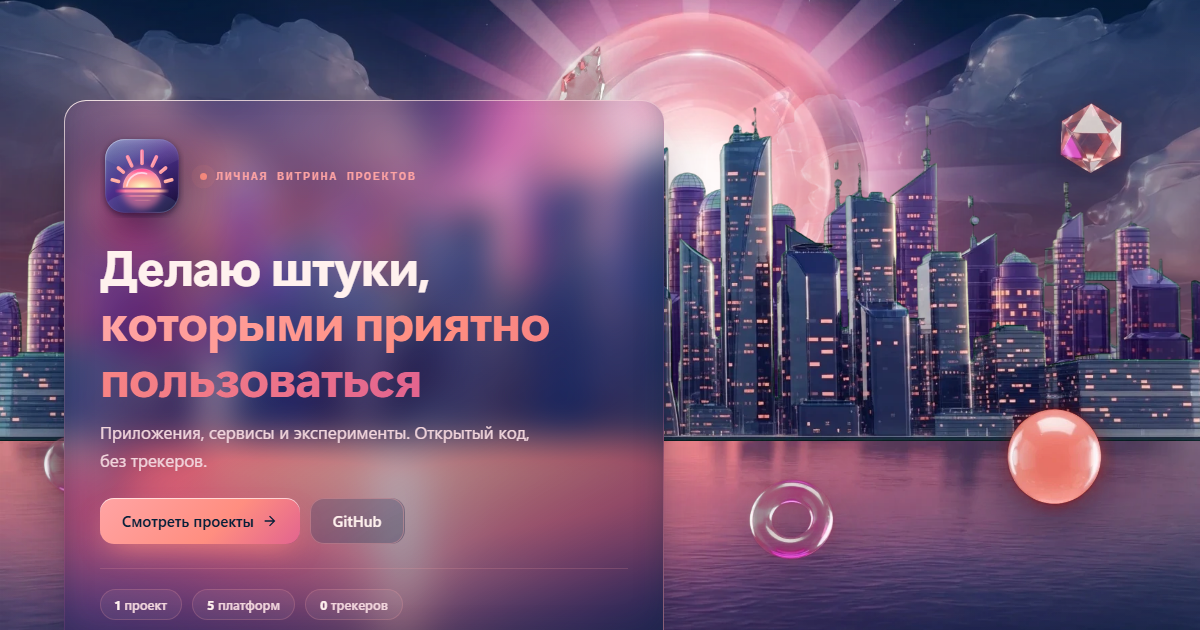
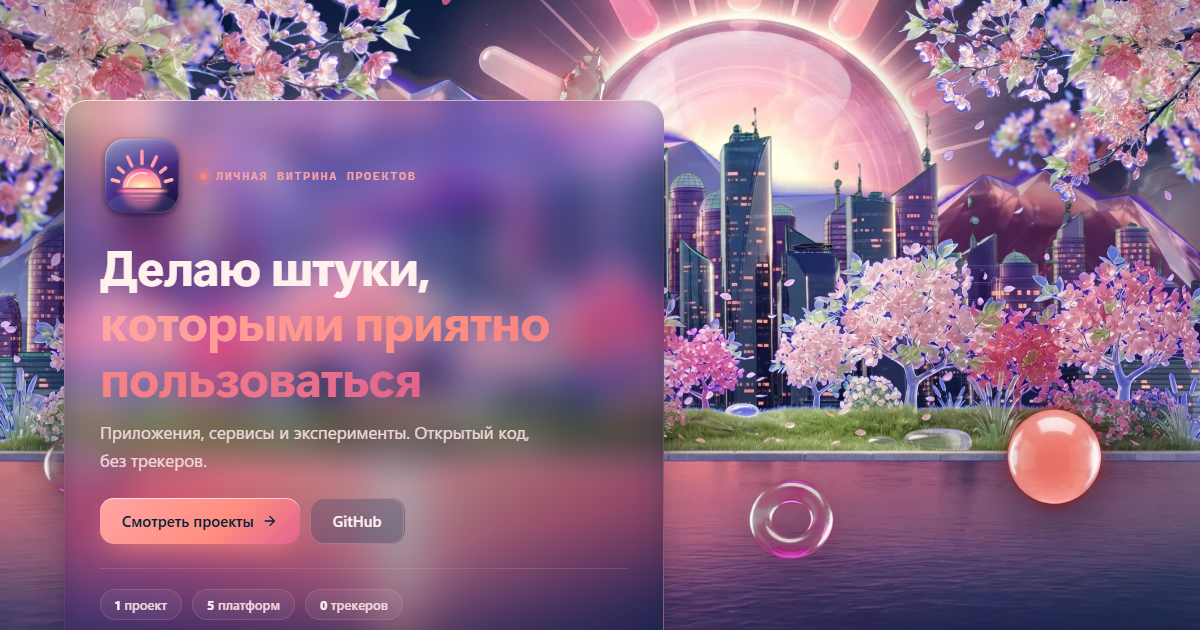
Four seasons by scroll, nature layers from Gemini (hills, shores, branches), fix city lifting on parallax

diff --git a/index.html b/index.html
@@ -57,7 +57,24 @@ img{max-width:100%}
 .fb-halo{position:absolute;inset:-60%;border-radius:50%;background:radial-gradient(circle,rgba(255,164,164,.55),rgba(226,100,143,.28) 30%,rgba(136,47,143,.0) 62%);mix-blend-mode:screen}
 .sun{mix-blend-mode:screen}
 .sun>img{width:100%;height:100%;object-fit:contain;-webkit-mask:radial-gradient(circle,#000 62%,transparent 74%);mask:radial-gradient(circle,#000 62%,transparent 74%)}
-.city{bottom:calc(100vh - var(--hz) - 1px);left:50%;right:auto;width:max(104vw,1340px);transform-origin:50% 100%}
+.cen{left:50%;right:auto;transform-origin:50% 100%}
+.city{bottom:calc(100vh - var(--hz) - 1px);width:max(104vw,1340px)}
+.hills{bottom:calc(100vh - var(--hz) - 1px);width:max(150vw,1900px)}
+.hills>img{display:block;width:100%;height:auto}
+.shore{bottom:calc(100vh - var(--hz) - 3.2vh);width:max(104vw,1340px);aspect-ratio:5.5/1}
+.shore>img{position:absolute;left:0;bottom:0;width:100%;height:auto;opacity:0}
+.tint{position:absolute;inset:0;mix-blend-mode:color;pointer-events:none;opacity:0}
+.branches{position:fixed;inset:0;z-index:-1;pointer-events:none;overflow:hidden}
+.br{position:absolute;top:-2vh;width:min(54vw,780px);aspect-ratio:16/9;will-change:transform}
+.br.l{left:-3vw}
+.br.r{right:-3vw;width:min(40vw,580px);top:-1vh}
+.br img{position:absolute;inset:0;width:100%;height:100%;opacity:0;filter:drop-shadow(0 20px 30px rgba(5,10,40,.45))}
+#parts{position:fixed;inset:0;z-index:-1;pointer-events:none}
+.seasons.glass{position:fixed;right:16px;top:50%;transform:translateY(-50%);z-index:45;display:flex;flex-direction:column;gap:13px;padding:15px 10px;border-radius:999px;align-items:center}
+.seasons button{width:14px;height:14px;border-radius:50%;border:2px solid var(--c);background:transparent;cursor:pointer;padding:0;transition:.25s;position:relative}
+.seasons button.on{background:var(--c);box-shadow:0 0 14px var(--c);transform:scale(1.25)}
+.seasons button:hover:after{content:attr(data-n);position:absolute;right:26px;top:50%;transform:translateY(-50%);font:600 12px var(--mono);color:var(--ink);background:rgba(5,31,57,.85);padding:3px 9px;border-radius:8px;white-space:nowrap}
+@media(max-width:700px){.seasons{right:6px;padding:11px 7px}}
 .city>svg,.city>img{display:block;width:100%;height:auto}
 .water{top:var(--hz);bottom:0}
 .water>img{width:100%;height:100%;object-fit:cover}
@@ -195,12 +212,20 @@ footer a:hover{text-decoration:underline}
 <div class="scene" id="scene" aria-hidden="true">
   <div class="ly sky" data-n="sky" data-d="0.01"></div>
   <div class="ly sun" data-n="sun" data-d="0.02"></div>
-  <div class="ly city" data-n="city-far" data-d="0.035"></div>
-  <div class="ly city" data-n="city-mid" data-d="0.06"></div>
-  <div class="ly city" data-n="city-near" data-d="0.1"></div>
+  <div class="ly hills cen" data-n="hills" data-d="0.02"></div>
+  <div class="ly city cen" data-n="city-far" data-d="0.035"></div>
+  <div class="ly city cen" data-n="city-mid" data-d="0.06"></div>
+  <div class="ly city cen" data-n="city-near" data-d="0.1"></div>
   <div class="ly water" data-n="water" data-d="0.02"></div>
+  <div class="ly shore cen" data-n="shore" data-d="0.12"></div>
+  <div class="tint" id="tint"></div>
 </div>
 <div class="sprites" id="sprites" aria-hidden="true"></div>
+<div class="branches" id="branches" aria-hidden="true"></div>
+<canvas id="parts" aria-hidden="true"></canvas>
+<div class="seasons glass" role="group" aria-label="Seasons">
+  <button data-k="0" style="--c:#ffa4a4"></button><button data-k="1" style="--c:#ffd27a"></button><button data-k="2" style="--c:#ff8e80"></button><button data-k="3" style="--c:#9fd8ff"></button>
+</div>
 <div class="veil" id="veil"></div><div class="fx"></div>
 
 <nav><div class="bar glass">
@@ -312,6 +337,7 @@ function render(){
   document.querySelector("#marq").innerHTML=unit+unit+unit+unit;
   document.querySelector("#stack").innerHTML=STACK.map(x=>`<span>${x}</span>`).join("");
   renderWork(); renderFeed();
+  if(typeof updSeasonUI==="function") updSeasonUI();
 }
 document.querySelector("#lang").onclick=()=>{L=L==="ru"?"en":"ru";localStorage.setItem("lang",L);render()};
 document.querySelector("#yr").textContent=new Date().getFullYear();
@@ -364,6 +390,8 @@ const FB={
   "water":()=>`<div class="fb-water"></div><div class="fb-mirror">${FB["city-mid"]()}</div><div class="fb-ripples"></div><div class="fb-refl"></div>`
 };
 const LAYERS=[...document.querySelectorAll(".ly")];
+const SEASONS=["spring","summer","autumn","winter"];
+const SNAME={ru:["Весна","Лето","Осень","Зима"],en:["Spring","Summer","Autumn","Winter"]};
 /* Build the scene once: Gemini art from scene.json (written by tools/import_gemini.py) where it
    exists, vector fallback elsewhere. Swapping content after first paint caused repaint glitches,
    so wait for the manifest and decoded images, then fade the layers in. */
@@ -371,46 +399,117 @@ function loadImg(src){return new Promise(res=>{const im=new Image();im.alt="";le
 (async function initScene(){
   let m=null;
   try{const r=await Promise.race([fetch("scene.json"),new Promise((_,rej)=>setTimeout(rej,2500))]); if(r.ok) m=await r.json();}catch(_){}
-  const LY=(m&&m.layers)||{};
+  const LY=(m&&m.layers)||{}, SE=(m&&m.seasons)||{};
   await Promise.all(LAYERS.map(async el=>{
-    const n=el.dataset.n, src=LY[n];
+    const n=el.dataset.n;
+    if(n==="shore"){for(const s of SEASONS){if(SE[s]&&SE[s].shore){const im=await loadImg(SE[s].shore); if(im){im.dataset.s=s; el.appendChild(im);}}} return;}
+    const src=LY[n];
     if(src){const im=await loadImg(src); if(im){el.appendChild(im);
       if(n==="sky") el.insertAdjacentHTML("beforeend",'<div class="dawn"></div>'); return;}}
-    el.innerHTML=FB[n]();
+    el.innerHTML=FB[n]?FB[n]():"";
   }));
+  /* corner branches, one image per season, crossfaded */
+  const brs=document.querySelector("#branches");
+  for(const side of ["l","r"]){
+    const b=document.createElement("div"); b.className="br "+side; b.dataset.d=side==="l"?.16:.22;
+    for(const s of SEASONS){if(SE[s]&&SE[s].branch){const im=await loadImg(SE[s].branch); if(im){im.dataset.s=s; b.appendChild(im);}}}
+    if(b.children.length) brs.appendChild(b);
+  }
   const SPOT=[[7,24,9,.14],[88,16,6,.2],[83,64,10,.1],[3,70,6,.22],[46,9,5,.13],[62,78,8,.17]];
   const box=document.querySelector("#sprites");
   (m&&m.glass||[]).slice(0,SPOT.length).forEach((src,i)=>{const s=SPOT[i],e=document.createElement("div");
     e.className="gs";e.dataset.d=s[3];e.style.cssText=`left:${s[0]}%;top:${s[1]}%;width:${s[2]}vw;min-width:${s[2]*9}px;animation-delay:${-i*1.7}s`;
     e.innerHTML=`<img src="${src}" alt="">`;box.appendChild(e)});
   setTimeout(()=>document.querySelector("#scene").classList.add("ready"),60);
+  applySeasons(); apply();
 })();
 
-/* ================= motion: sunrise on scroll + pointer parallax ================= */
+/* ================= motion: sunrise + four seasons on scroll, pointer parallax ================= */
 const still=matchMedia("(prefers-reduced-motion:reduce)").matches;
 const fine=matchMedia("(hover:hover) and (pointer:fine)").matches;
-const root=document.documentElement, scene=document.querySelector("#scene"), sunEl=document.querySelector(".sun");
-let px=0,py=0,tx=0,ty=0,sy=0;
+const root=document.documentElement, scene=document.querySelector("#scene"), tint=document.querySelector("#tint");
+let px=0,py=0,tx=0,ty=0,sy=0,WT=[1,0,0,0],SUNO=[1,1],curS=-1;
+const clamp=(v,a,b)=>Math.max(a,Math.min(b,v));
+/* season look: colour grade + sun mood */
+const TINT={spring:[0,0,0,0],summer:[255,176,72,.26],autumn:[255,110,30,.34],winter:[96,176,255,.42]};
+const SUNK={spring:[1,1],summer:[1,1.08],autumn:[.88,.96],winter:[.5,.86]};
+function weights(s){const w=[0,0,0,0],i=Math.min(2,Math.floor(s)),t=s-i,e=clamp((t-.3)/.4,0,1),k=e*e*(3-2*e);w[i]=1-k;w[i+1]=k;return w}
+function updSeasonUI(){
+  document.querySelectorAll(".seasons button").forEach((b,i)=>{b.classList.toggle("on",i===curS);b.dataset.n=SNAME[L][i];b.setAttribute("aria-label",SNAME[L][i])});
+}
+function applySeasons(){
+  const max=Math.max(1,root.scrollHeight-innerHeight);
+  WT=weights(3*clamp(sy/max,0,1));
+  document.querySelectorAll("[data-s]").forEach(im=>{im.style.opacity=WT[SEASONS.indexOf(im.dataset.s)]});
+  let a=0,r=0,g=0,b=0,so=0,ss=0;
+  SEASONS.forEach((n,i)=>{const T=TINT[n],wa=WT[i]*T[3];a+=wa;r+=wa*T[0];g+=wa*T[1];b+=wa*T[2];so+=WT[i]*SUNK[n][0];ss+=WT[i]*SUNK[n][1]});
+  tint.style.background=a>0?`rgb(${Math.round(r/a)},${Math.round(g/a)},${Math.round(b/a)})`:"transparent"; tint.style.opacity=a;
+  SUNO=[so,ss];
+  const idx=WT.indexOf(Math.max(...WT)); if(idx!==curS){curS=idx;updSeasonUI()}
+}
 function apply(){
   const vh=innerHeight, p=.34+.66*Math.min(1,sy/(vh*1.1));
   scene.style.setProperty("--night",(1-p)*.75);
   scene.style.setProperty("--nightImg",(1-p)*.55);
-  /* sun climbs from just under the skyline to well above it */
+  /* the sun climbs from just under the skyline to well above it */
   const rise=-(.31+.2*p)*vh;
   LAYERS.forEach(el=>{
-    const d=+el.dataset.d, n=el.dataset.n;
-    let x=-px*d*60, y=-py*d*40 - sy*d*.35, ex="";
-    if(n==="sun") y+=rise;
-    if(el.classList.contains("city")) ex="translateX(-50%) ";
-    el.style.transform=`${ex}translate3d(${x}px,${y}px,0)`;
+    const d=+el.dataset.d, n=el.dataset.n, cen=el.classList.contains("cen");
+    /* everything standing on the horizon (hills, city, water, shore) moves sideways only:
+       a vertical shift would lift the city off its base and open a gap */
+    let x=-px*d*40, y=0;
+    if(n==="sky") y=-py*d*30 - sy*d*.2;
+    let tf=`translate3d(${x}px,${y}px,0)`;
+    if(n==="sun"){tf=`translate3d(${x}px,${rise-py*d*20}px,0) scale(${SUNO[1]})`; el.style.opacity=SUNO[0]}
+    el.style.transform=(cen?"translateX(-50%) ":"")+tf;
   });
+  document.querySelectorAll(".br").forEach(e=>{const d=+e.dataset.d;e.style.transform=`translate3d(${-px*d*90}px,${-py*d*60-sy*d*.12}px,0)${e.classList.contains("r")?" scaleX(-1)":""}`});
   document.querySelectorAll(".gs").forEach(e=>{const d=+e.dataset.d;e.style.transform=`translate3d(${-px*d*140}px,${-py*d*100-sy*d*.5}px,0)`});
   root.style.setProperty("--veil",Math.min(.5,sy/(vh*2.2)));
 }
-function frame(){px+=(tx-px)*.06;py+=(ty-py)*.06;apply();requestAnimationFrame(frame)}
-addEventListener("scroll",()=>{sy=scrollY;if(still)apply()},{passive:true});
+
+/* ---- falling nature: petals, fireflies, leaves, snow (canvas, follows the season weights) ---- */
+const cv=document.querySelector("#parts"), cx=cv.getContext("2d");
+let PT=[];
+function fitCanvas(){cv.width=innerWidth;cv.height=innerHeight}
+addEventListener("resize",fitCanvas); fitCanvas();
+function spawn(kind){
+  const W=cv.width,H=cv.height,r=Math.random;
+  const p={k:kind,x:r()*W*1.15-W*.05,y:-24,a:r()*6.28,ph:r()*6.28,sp:(r()-.5)*2.4};
+  if(kind==="petal"){p.vy=22+r()*26;p.vx=10+r()*20;p.sz=4+r()*5;p.col=r()<.5?"255,164,164":"226,100,143"}
+  if(kind==="leaf"){p.vy=34+r()*34;p.vx=8+r()*26;p.sz=7+r()*6;p.col=["255,142,128","226,100,143","250,255,194","224,130,50"][Math.floor(r()*4)]}
+  if(kind==="snow"){p.vy=26+r()*40;p.vx=-6+r()*12;p.sz=1.2+r()*3;p.col="255,255,255"}
+  if(kind==="fly"){p.x=r()*W;p.y=H*(.3+r()*.55);p.vx=-8+r()*16;p.vy=-6+r()*12;p.sz=1.6+r()*2.2;p.col="255,222,150"}
+  return p;
+}
+function stepParticles(dt,t){
+  const W=cv.width,H=cv.height, wt={petal:WT[0],fly:WT[1],leaf:WT[2],snow:WT[3]};
+  const rate={petal:7,leaf:6,snow:22}, cap={petal:60,leaf:50,snow:140,fly:34};
+  const count={petal:0,leaf:0,snow:0,fly:0}; PT.forEach(p=>count[p.k]++);
+  for(const k of ["petal","leaf","snow"]) if(wt[k]>.05&&count[k]<cap[k]&&Math.random()<rate[k]*wt[k]*dt) PT.push(spawn(k));
+  if(wt.fly>.05) while(count.fly<cap.fly*wt.fly){PT.push(spawn("fly"));count.fly++}
+  cx.clearRect(0,0,W,H);
+  PT=PT.filter(p=>{
+    const f=Math.min(1,wt[p.k]*3); if(p.k==="fly"&&f<.04) return false;
+    p.x+=(p.vx+Math.sin(t*1.3+p.ph)*(p.k==="snow"?10:18))*dt; p.y+=p.vy*dt; p.a+=p.sp*dt;
+    if(p.k==="fly"){ if(p.x<-20||p.x>W+20) p.vx*=-1; if(p.y<H*.25||p.y>H*.9) p.vy*=-1; }
+    else if(p.y>H+30||p.x>W+60) return false;
+    cx.save(); cx.translate(p.x,p.y); cx.rotate(p.a);
+    if(p.k==="petal"){cx.fillStyle=`rgba(${p.col},${.85*f})`;cx.beginPath();cx.ellipse(0,0,p.sz,p.sz*.55,0,0,6.283);cx.fill()}
+    else if(p.k==="leaf"){cx.fillStyle=`rgba(${p.col},${.9*f})`;cx.beginPath();cx.moveTo(0,-p.sz);cx.quadraticCurveTo(p.sz*.9,0,0,p.sz);cx.quadraticCurveTo(-p.sz*.9,0,0,-p.sz);cx.fill()}
+    else if(p.k==="snow"){cx.fillStyle=`rgba(255,255,255,${.9*f})`;cx.beginPath();cx.arc(0,0,p.sz,0,6.283);cx.fill()}
+    else {const pulse=.5+.5*Math.sin(t*2.2+p.ph),g=cx.createRadialGradient(0,0,0,0,0,p.sz*5);g.addColorStop(0,`rgba(${p.col},${.95*pulse*f})`);g.addColorStop(1,`rgba(${p.col},0)`);cx.fillStyle=g;cx.beginPath();cx.arc(0,0,p.sz*5,0,6.283);cx.fill()}
+    cx.restore(); return true;
+  });
+}
+let lastT=performance.now();
+function frame(now){px+=(tx-px)*.06;py+=(ty-py)*.06;applySeasons();apply();stepParticles(Math.min(.05,(now-lastT)/1000),now/1000);lastT=now;requestAnimationFrame(frame)}
+addEventListener("scroll",()=>{sy=scrollY;if(still){applySeasons();apply()}},{passive:true});
+addEventListener("resize",()=>{applySeasons();apply()});
 if(fine&&!still) addEventListener("pointermove",e=>{tx=e.clientX/innerWidth*2-1;ty=e.clientY/innerHeight*2-1});
-sy=scrollY; apply(); if(!still) requestAnimationFrame(frame);
+document.querySelectorAll(".seasons button").forEach(b=>b.onclick=()=>{
+  const max=Math.max(1,root.scrollHeight-innerHeight); scrollTo({top:max*(+b.dataset.k)/3,behavior:still?"auto":"smooth"})});
+sy=scrollY; applySeasons(); apply(); if(!still) requestAnimationFrame(frame);
 
 /* glass tilt + specular follow */
 function bindTilt(){

diff --git a/tools/import_gemini.py b/tools/import_gemini.py
@@ -59,6 +59,26 @@ def key_green(im):
     return out
 
 
+def key_auto(im, crop=None):
+    """Key out a flat background of any colour (blue for the nature assets).
+    The key colour is the median of the frame border; edge pixels are un-mixed so no fringe stays.
+    crop: None = keep the frame, 'v' = crop empty rows above/below the content."""
+    a = np.asarray(im).astype(np.float32)
+    b = 6
+    border = np.concatenate([a[:b].reshape(-1, 3), a[-b:].reshape(-1, 3),
+                             a[:, :b].reshape(-1, 3), a[:, -b:].reshape(-1, 3)])
+    key = np.median(border, axis=0)
+    d = np.linalg.norm(a - key, axis=2)
+    alpha = np.clip((d - 40) / 55, 0, 1)
+    safe = np.maximum(alpha, 1e-3)[..., None]
+    rgb = np.clip((a - (1 - alpha)[..., None] * key) / safe, 0, 255)
+    out = Image.fromarray(np.dstack([rgb, alpha * 255]).astype(np.uint8), "RGBA")
+    if crop == "v":
+        bbox = out.getchannel("A").point(lambda v: 255 if v > 24 else 0).getbbox()
+        if bbox:
+            out = out.crop((0, bbox[1], out.width, bbox[3]))
+    return out
+
 def black_to_alpha(im):
     """For screen-blended art on black: alpha from brightness, colour un-premultiplied."""
     a = np.asarray(im).astype(np.float32)
@@ -100,6 +120,18 @@ def main():
             box = (max(sl[1].start - pad, 0), max(sl[0].start - pad, 0), sl[1].stop + pad, sl[0].stop + pad)
             manifest["glass"].append(save(rgba.crop(box), f"glass-{k}", True))
 
+    # nature: hills + per-season shore strip and corner branch (blue chroma key)
+    if (im := load("hills")):
+        manifest["layers"]["hills"] = save(key_auto(shrink(im), "v"), "hills", True)
+    manifest["seasons"] = {}
+    for s in ("spring", "summer", "autumn", "winter"):
+        entry = {}
+        if (im := load(f"shore-{s}")):
+            entry["shore"] = save(key_auto(shrink(im), "v"), f"shore-{s}", True)
+        if (im := load(f"branch-{s}")):
+            entry["branch"] = save(key_auto(shrink(im)), f"branch-{s}", True)
+        if entry:
+            manifest["seasons"][s] = entry
     (ROOT / "scene.json").write_text(json.dumps(manifest, indent=1), encoding="utf-8")
     print("scene.json updated, open the site to see the new art")
 

diff --git a/docs/gemini/PROMPTS.md b/docs/gemini/PROMPTS.md
@@ -62,3 +62,23 @@ Calm glassy water surface at dawn, 21:7, seen from low angle. The top edge is th
 ```
 A sprite sheet of 8 to 10 separate floating 3D glass objects on a PURE BLACK #000000 background, 16:9, wide spacing between objects so none touch: glass spheres of different sizes, a faceted crystal, a thick glass ring, a shard, a glass cube with rounded corners, a pill shape. Translucent with colored refraction in magenta #c53a9d, coral #ff8e80 and blush #ffa4a4, glossy white specular highlights, soft inner glow. Nothing else, the background must be perfectly black.
 ```
+
+---
+
+## Природа и сезоны (ключ — синий `#0000FF`, скрипт определяет цвет фона по краям сам)
+
+Общий префикс: `3D glassy style, translucent glass-like leaves and surfaces, soft subsurface glow, glossy specular highlights, polished cinematic 3D render, no text, not pixel art. SOLID PURE BLUE #0000FF background (flat chroma-key blue, no gradient, no sky, no water).`
+
+### hills.png (21:5)
+```
+Very wide panorama 21:5. Layered misty mountains and forested hills. Three overlapping ridges in hazy indigo #28225d, purple #4a2480 and plum #882f8f with soft atmospheric haze, glassy faceted mountain faces with a soft blush #ffa4a4 rim light as if the sun rises behind, dark pine forests on the slopes, the nearest ridge darkest. All mountains stand on one straight flat baseline at the very bottom edge and touch it, nothing below.
+```
+
+### shore-spring / shore-summer / shore-autumn / shore-winter (21:4)
+Тот же формат, меняется описание берега: *SPRING* — цветущие вишни в blush `#ffa4a4` и rose `#e2648f`, цветущие кусты, камыш, лепестки; *SUMMER* — густые деревья и плакучая ива, изумрудная листва с коралловыми бликами, светлячки; *AUTUMN* — клёны, берёзы и дубы с янтарной, золотой, коралловой и красной листвой, тыквы, сухой камыш, кружащиеся листья; *WINTER* — заснеженные ели и сосны, голые берёзы с ледяными кристаллами, сосульки, холодный снег с фиолетовыми тенями. Везде: «a low embankment seen from the side, a row of trees of varied heights up to 70 percent of the frame, a thin stone edge at the very bottom, everything stands on one straight flat bottom edge».
+
+### branch-spring / branch-summer / branch-autumn / branch-winter (16:9)
+```
+A large overhanging <cherry blossom | leafy | maple | frosted> branch entering from the TOP-LEFT corner of the frame and sweeping toward the center, occupying the upper-left half of the image, <season details>, depth of field: far parts softly blurred, near ones sharp. Nothing else, the right and bottom parts of the frame stay empty blue.
+```
+(Правая ветвь на сайте — зеркальная копия левой.)

diff --git a/README.md b/README.md
@@ -4,7 +4,7 @@
 
 ## Дизайн
 
-Сейчас: **Dawn City** — 3D glass поверх слоёв сцены (небо, солнце, три слоя города, вода, стеклянные спрайты). Палитра `#051f39 #28225d #4a2480 #882f8f #c53a9d #e2648f #ff8e80 #ffa4a4`.
+Сейчас: **Four Seasons** — Dawn City с четырьмя временами года, которые сменяют друг друга при скролле (весна → лето → осень → зима): прибрежные деревья, ветви в углах, цветокоррекция, лепестки/светлячки/листья/снег. Прошлый вариант: **Dawn City** — 3D glass поверх слоёв сцены (небо, солнце, три слоя города, вода, стеклянные спрайты). Палитра `#051f39 #28225d #4a2480 #882f8f #c53a9d #e2648f #ff8e80 #ffa4a4`.
 
 Прошлые дизайны восстанавливаются из git:
 
